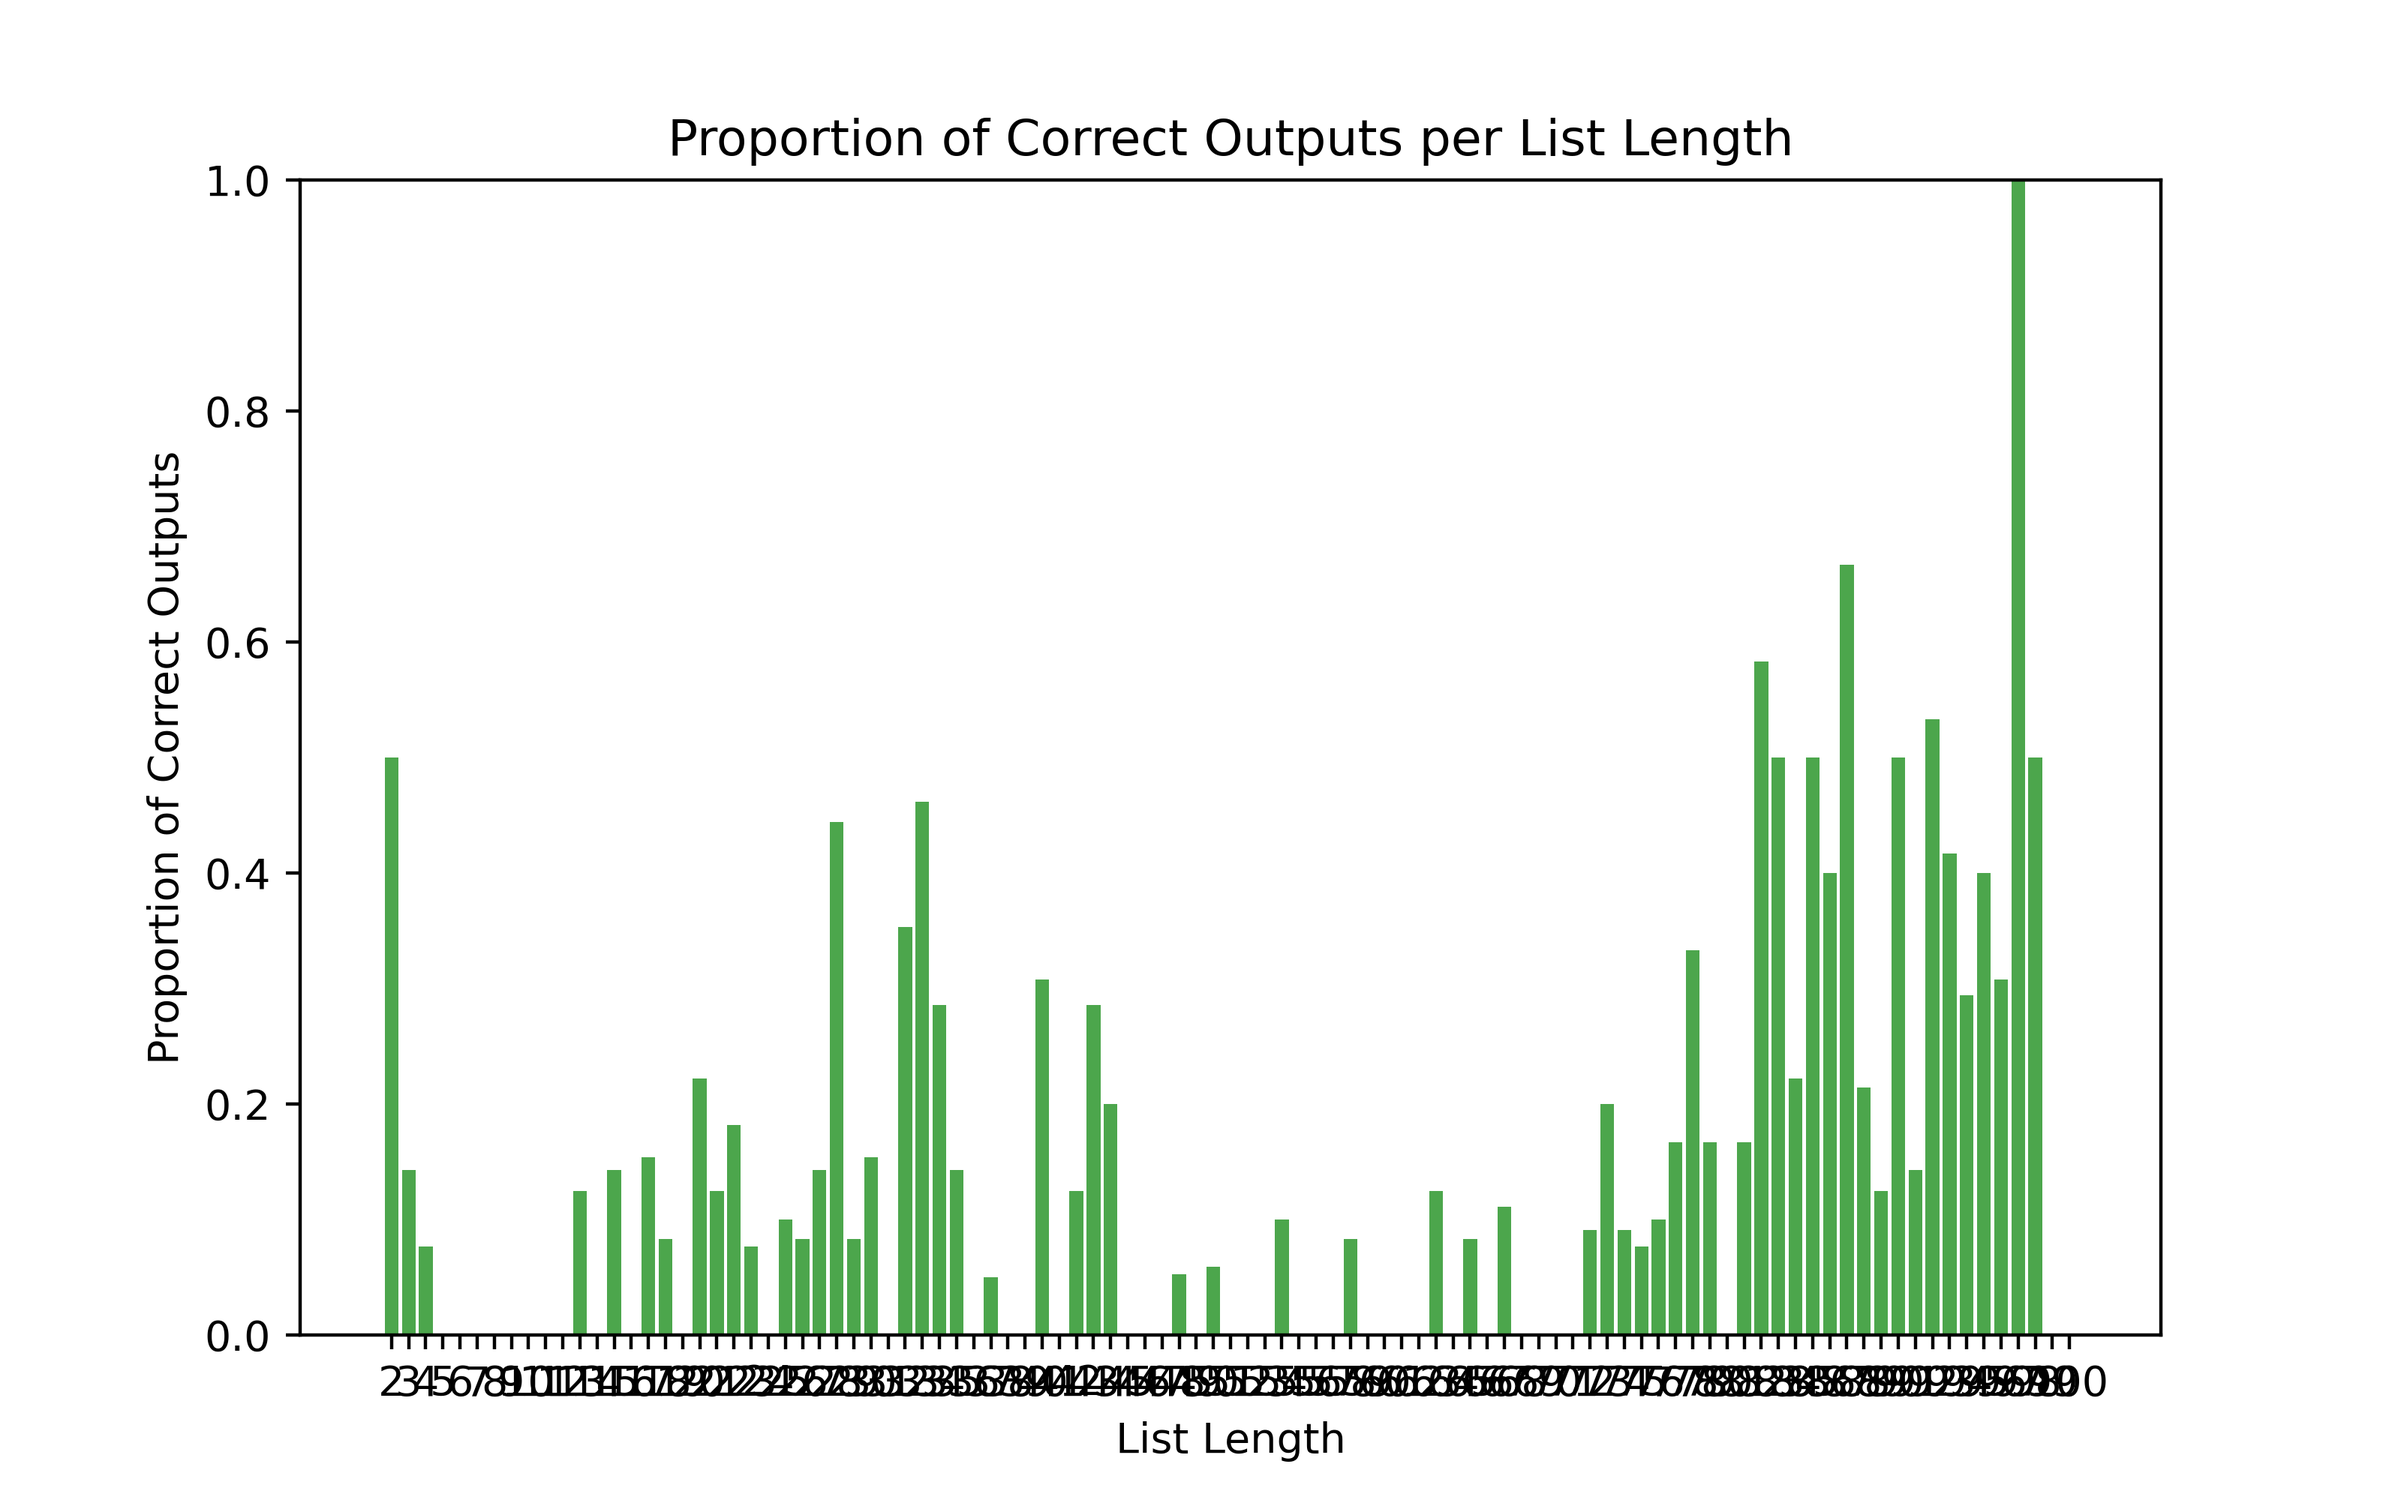
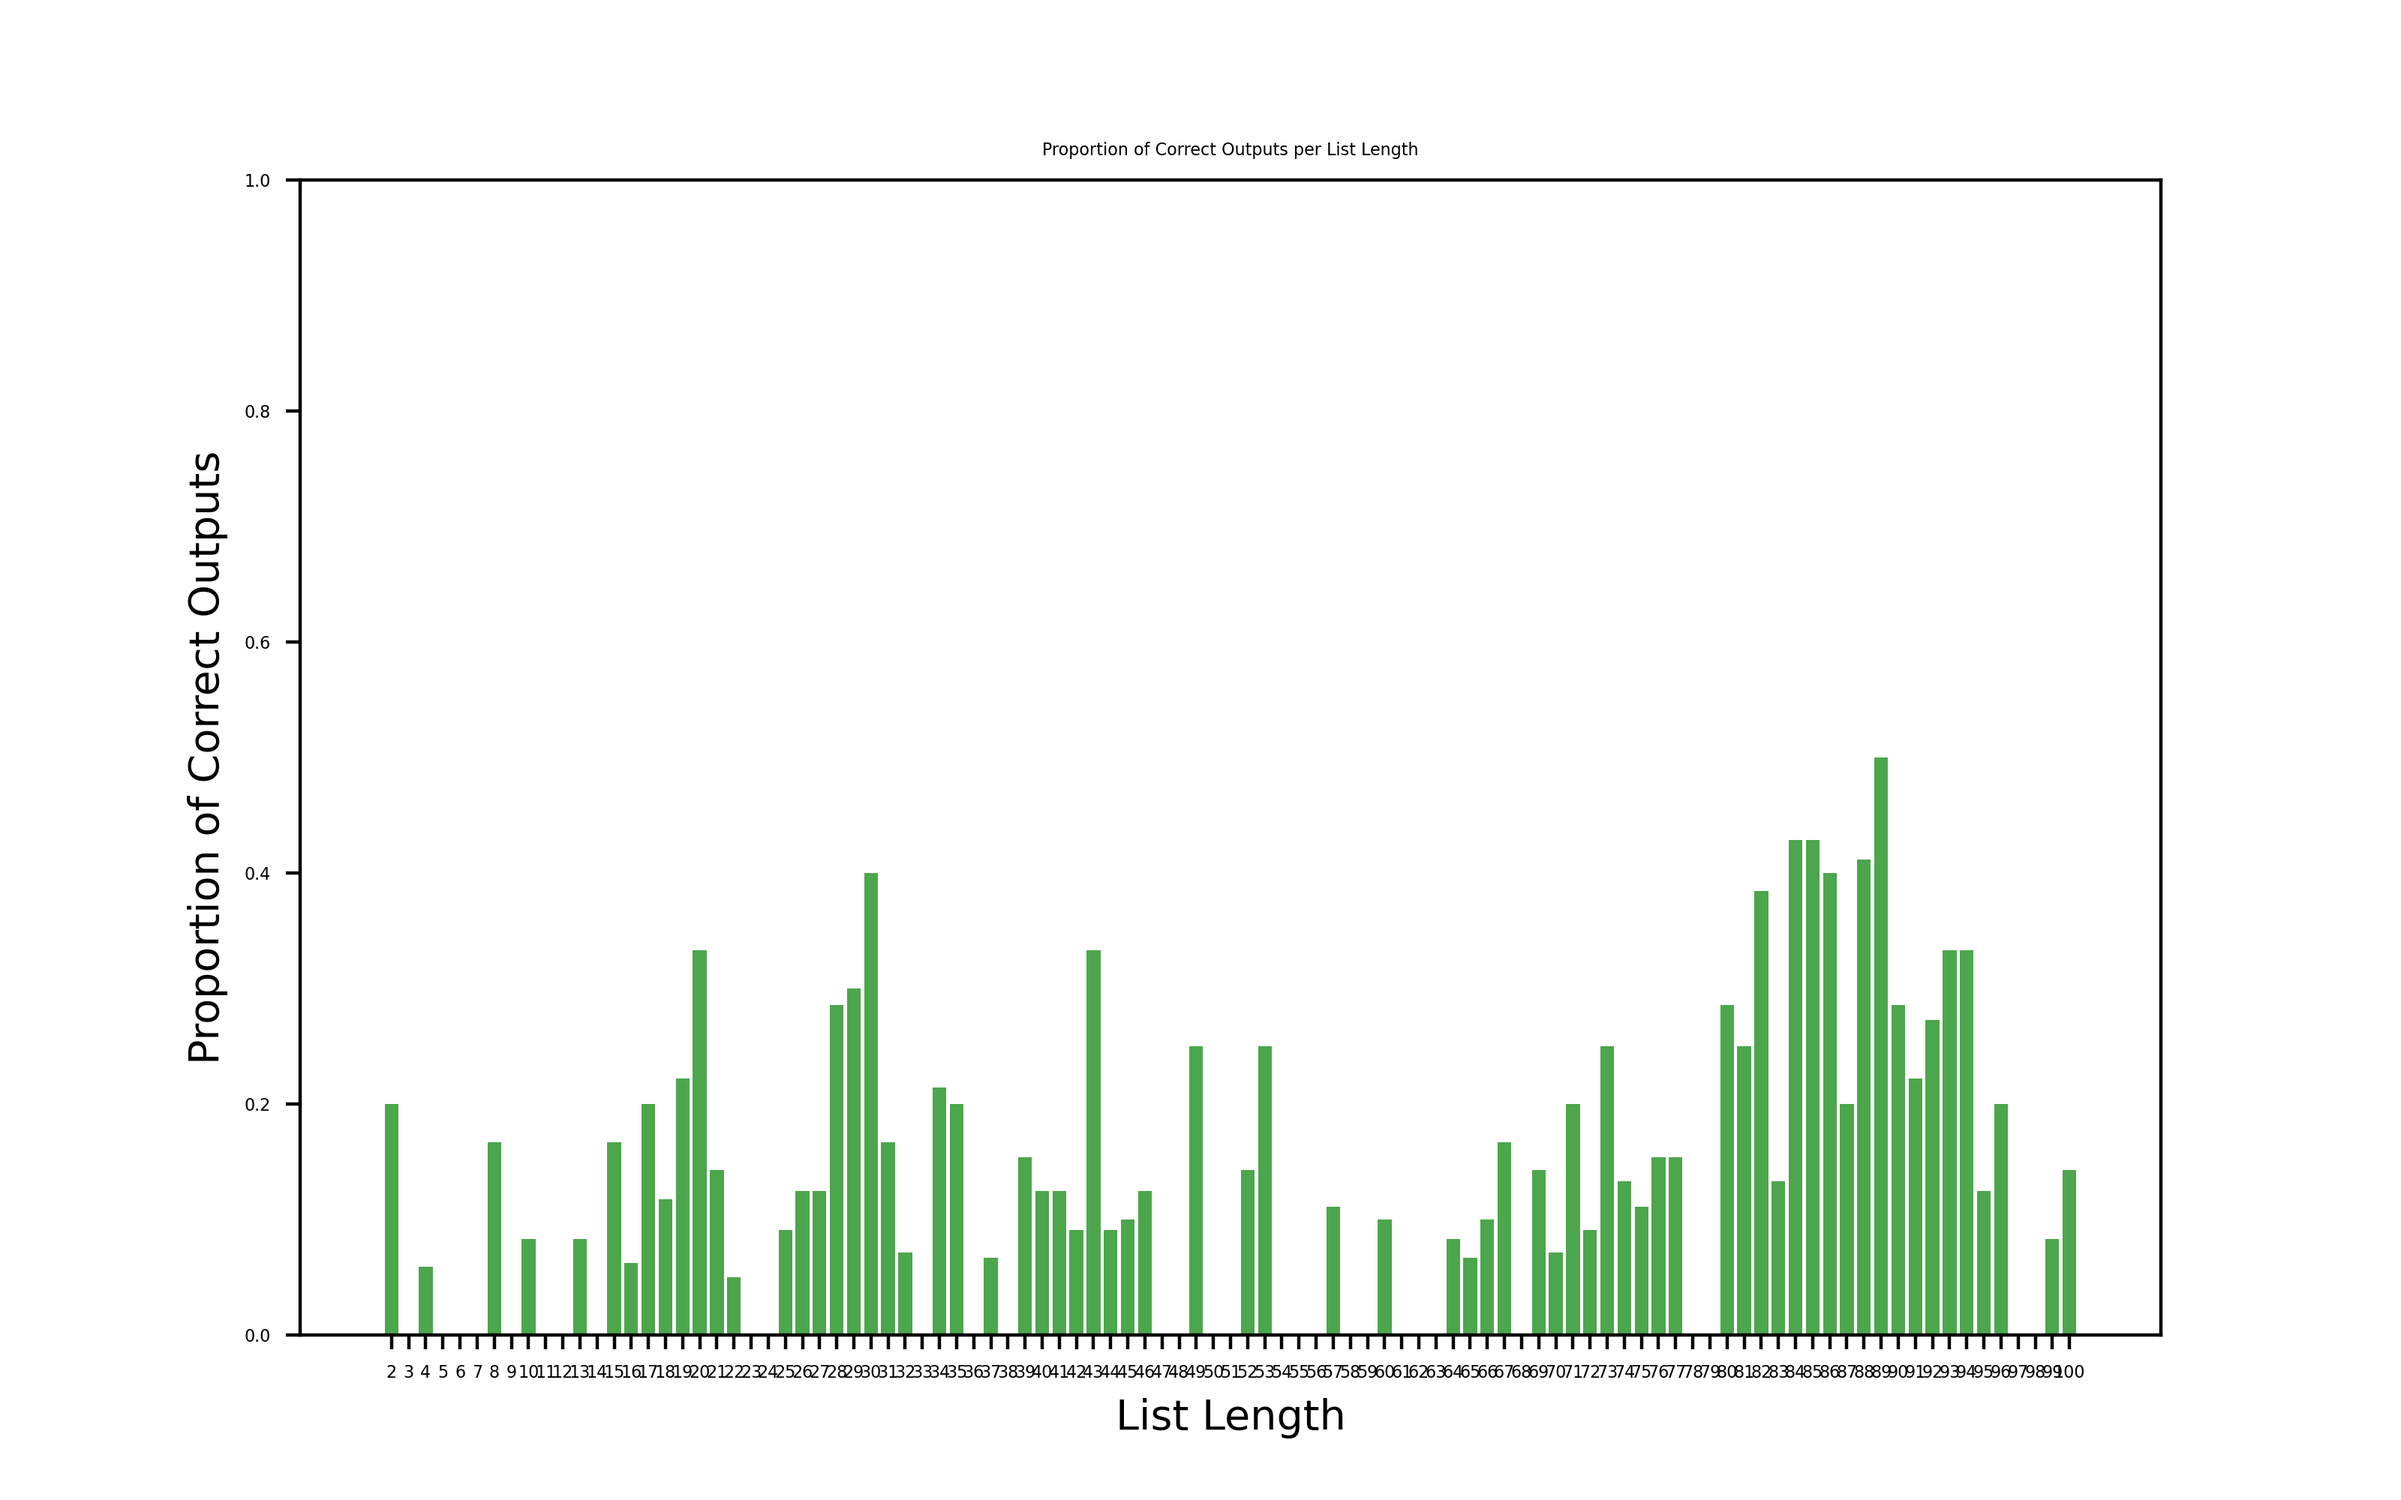
updated plotting code

diff --git a/utils_final.py b/utils_final.py
@@ -7,6 +7,7 @@ import json
 import numpy as np
 from itertools import chain
 from torch.utils.data import Dataset, DataLoader
+import imageio
 from torch.nn import (
     Parameter,
     Module,
@@ -325,18 +326,7 @@ class MultiheadGQA(Module):
 
 
 class AttentionVisualizer:
-    """
-    Utility class to visualize attention weights from a Transformer model.
-    """
-
     def __init__(self, model, tokenizer, out_dir, test_path, meta_path):
-        """
-        Initialize the visualizer with a model and tokenizer.
-
-        Args:
-            model: The Transformer model.
-            tokenizer: The tokenizer used for encoding input.
-        """
         self.model = model
         self.out_dir = out_dir
         self.test_path = test_path
@@ -346,139 +336,88 @@ class AttentionVisualizer:
             meta = pickle.load(f)
 
         self.stoi, self.itos = meta['stoi'], meta['itos']
-        #self.tokenizer = tokenizer
+        self.tokenizer = tokenizer  # optional, depending on how you encode
 
-    def infer_and_visualize_attention(
-            self,
-            input_text,
-            heads,
-            layers,
-            problem,
-            specific_path = False,
-            save_path="attention_weights.png",
-            use_power_scale=False,
-            gamma=0.5,
-    ):
-        """
-        Perform inference and visualize attention weights for given heads and layers,
-        separately for paths of different lengths.
-        """
-        plt.rc("xtick", labelsize=4)
-        plt.rc("ytick", labelsize=4)
-        plt.rc("axes", titlesize=4)
+    def encode(self, text):
+        # Assuming whitespace tokenization and vocab is a dict of str -> int
+        return [self.stoi[token] for token in text.split()]
 
-        self.model.eval()
-        paths_by_length = {}
+    def decode(self, ids):
+        return [self.itos[i] for i in ids]
 
-        if specific_path:
-            numbers = input_text.split()
-            path_length = len(numbers)
-            if specific_path:
-                paths_by_length[path_length] = []
-                paths_by_length[path_length].append(" ".join(numbers))
-        else:
-             # Group paths by length
-            with open(self.test_path, "r") as file:
-                for line in file:
-                    numbers = line.split()
-                    path_length = len(numbers)
-                    if path_length not in paths_by_length:
-                        paths_by_length[path_length] = []
-                    paths_by_length[path_length].append(" ".join(numbers))
-        print(paths_by_length.items())
+    def generate_and_visualize_attention_step_by_step(self, input_text, max_new_tokens=5, layer=0, head=0):
+        input_ids = torch.tensor(self.encode(input_text)).unsqueeze(0)
+        attention_per_step = []
+        generated = input_ids.clone()
+        full_generated = input_ids.squeeze(0).tolist()
 
-        for path_length, paths in paths_by_length.items():
-            for layer in layers:
-                for head in heads:
-                    all_attns = np.zeros((path_length, path_length))
+        for step in range(max_new_tokens):
+            logits, _, attn_weights = self.model(generated, return_attn_weights=True)
+            next_token = torch.argmax(logits[:, -1, :], dim=-1)
+            generated = torch.cat([generated, next_token.unsqueeze(0)], dim=1)
+            full_generated.append(next_token.item())
 
-                    for path in paths:
-                        if problem == "cut":
-                            data.simple_graph.prepare_minigpt_cut.encode(path)
-                        else:
-                            encoded_input = self.encode(path)
-                        encoded_input_tensor = torch.tensor(encoded_input).unsqueeze(0)
-                        logits, loss, attn_weights = self.model(encoded_input_tensor, return_attn_weights=True)
-                        if attn_weights is None or len(attn_weights) == 0:
-                            raise ValueError("Attention weights are missing. Ensure the model outputs them.")
+            if attn_weights is None or len(attn_weights) == 0:
+                raise ValueError("Missing attention weights. Ensure the model returns them.")
 
-                        attn_layer = attn_weights[layer]
-                        if isinstance(attn_layer, torch.Tensor):
-                            attn_matrix = attn_layer[0, head].detach().numpy()
-                        elif isinstance(attn_layer, list):
-                            attn_matrix = attn_layer[head][0].detach().numpy()
-                        else:
-                            raise TypeError(f"Unexpected attention weight type: {type(attn_layer)}")
-                        all_attns = np.add(all_attns, attn_matrix)
+            layer_attn = attn_weights[layer][0, head, -1].detach().cpu().numpy()  # (seq_len_so_far,)
+            attention_per_step.append(layer_attn)
 
-                    all_attns = np.divide(all_attns, len(paths))
-                    print(f"Path length {path_length}: {len(paths)} samples")
-                    self.plot_attention(all_attns, head, layer, path_length)
+            self.plot_single_step_attention(
+                layer_attn,
+                full_generated,
+                step,
+                layer,
+                head
+            )
 
-    def plot_attention(self, attn_matrix, head=0, layer=0, path_length=0):
-        plt.figure(figsize=(10, 8))  # Ensure consistent scaling
-        sns.heatmap(attn_matrix, cmap="viridis", cbar=True, square=True)
-        plt.xlabel("Key Tokens")
-        plt.ylabel("Query Tokens")
-        plt.title(f"Attention Head {head} - Layer {layer} - Path Length {path_length}")
-        plt.savefig(os.path.join(self.out_dir, f"attention_{layer}_layer_{head}_head_length_{path_length}.png"))
-        print(self.out_dir)
+        self.plot_combined_attention_steps(attention_per_step, full_generated, input_len=input_ids.shape[1])
+        self.make_attention_gif()
+
+    def plot_single_step_attention(self, attn_vector, generated_ids, step, layer, head):
+        plt.figure(figsize=(8, 1.5))
+        sns.heatmap([attn_vector], cmap="viridis", cbar=True, xticklabels=self.decode(generated_ids[:-1]), yticklabels=[f"Step {step}"])
+        plt.title(f"Layer {layer} Head {head} | Token: '{self.itos[generated_ids[-1]]}'")
+        plt.xticks(rotation=45)
+        plt.tight_layout()
+        save_path = os.path.join(self.out_dir, f"rev_attn_step{step}_L{layer}_H{head}.png")
+        plt.savefig(save_path)
         plt.close()
 
-    def _plot_attention(
-            self,
-            ax,
-            attention_matrix,
-            labels,
-            head,
-            layer,
-            use_power_scale,
-            gamma,
-    ):
-        """
-        Plot attention weights as a heatmap on a given axis.
+    def plot_combined_attention_steps(self, attention_per_step, generated_ids, input_len, layers=None, heads=None, save_path="combined_grid.png"):
+        num_steps = len(attention_per_step)
+        rows = num_steps
+        cols = 1
 
-        Args:
-            ax: Matplotlib axis to plot on.
-            attention_matrix (numpy.ndarray): The attention weights matrix.
-            labels (list): Token labels for x and y axes.
-            head (int): The attention head being visualized.
-            layer (int): The Transformer layer being visualized.
-            use_power_scale (bool): Whether to apply power scale normalization.
-            gamma (float): Gamma value for power normalization.
-        """
-        # Select colormap and normalization
-        cmap = "Blues"
-        norm = (
-            mcolors.PowerNorm(gamma=gamma, vmin=0, vmax=1)
-            if use_power_scale
-            else mcolors.Normalize(vmin=0, vmax=1)
-        )
+        fig, axs = plt.subplots(rows, cols, figsize=(cols * 8, rows * 1.5))
 
-        # Plot attention weights
-        im = ax.matshow(attention_matrix, cmap=cmap, norm=norm)
+        if rows == 1:
+            axs = [axs]
 
-        # Add labels to axes
-        ax.set_xticks(range(len(labels)))
-        ax.set_xticklabels(labels, rotation=90)
-        ax.tick_params(axis="x", bottom=True, top=True, labelbottom=True, labeltop=True)
-        ax.set_yticks(range(len(labels)))
-        ax.set_yticklabels(labels)
+        for step_idx, attn_vector in enumerate(attention_per_step):
+            ax = axs[step_idx]
+            sns.heatmap([attn_vector], ax=ax, cmap="viridis", cbar=False,
+                        xticklabels=self.decode(generated_ids[:input_len + step_idx]),
+                        yticklabels=[f"Step {step_idx}"])
+            ax.set_title(f"Token: '{self.itos[generated_ids[input_len + step_idx]]}'")
+            ax.set_xticklabels(ax.get_xticklabels(), rotation=45, ha='right')
 
-        # Add title
-        ax.set_title(f"Layer {layer}, Head {head}")
+        plt.tight_layout()
+        plt.savefig(os.path.join(self.out_dir, save_path))
+        plt.close()
 
-        # Add colorbar nd size
-        plt.colorbar(im, ax=ax, fraction=0.046, pad=0.04)
-
-    def encode_string(self, s, stonum):
-        s = s.rstrip()
-        ss = s.split(" ")
-        encoded_string = [stonum[ch] for ch in ss]
-        return encoded_string
-
-    def encode(self, s):
-        return self.encode_string(s, self.stoi)
+    def make_attention_gif(self, prefix="rev_attn_step", save_name="attn_animation.gif"):
+        images = []
+        for fname in sorted(os.listdir(self.out_dir)):
+            if fname.startswith(prefix) and fname.endswith(".png"):
+                img_path = os.path.join(self.out_dir, fname)
+                images.append(imageio.imread(img_path))
+        if not images:
+            print("No PNGs found for GIF.")
+            return
+        gif_path = os.path.join(self.out_dir, save_name)
+        imageio.mimsave(gif_path, images, duration=0.8)
+        print(f"Saved attention animation to {gif_path}")
 
 
 

diff --git a/test_list_hinting.py b/test_list_hinting.py
@@ -133,7 +133,7 @@ data_path = f'data/list/{num_nodes}_{problem}'
 tokenizer = tiktoken.get_encoding("gpt2")
 meta_path = f'{data_path}/meta.pkl'
 viz = AttentionVisualizer(model, tokenizer, out_dir = out_dir, test_path=f'{data_path}/test.txt', meta_path=meta_path)
-viz.infer_and_visualize_attention( heads=[0], layers = [0], input_text="21 44 21 23 30 32 44", problem = "path")
+viz.generate_and_visualize_attention_step_by_step("2 5 5 11 16 17 31 32 40 43 46 48 60 64 65 72 76 85 86 99 %", max_new_tokens=20, layer=0, head=0)
 
 # Initialize empty file
 with open(pred_file, 'w') as f:
